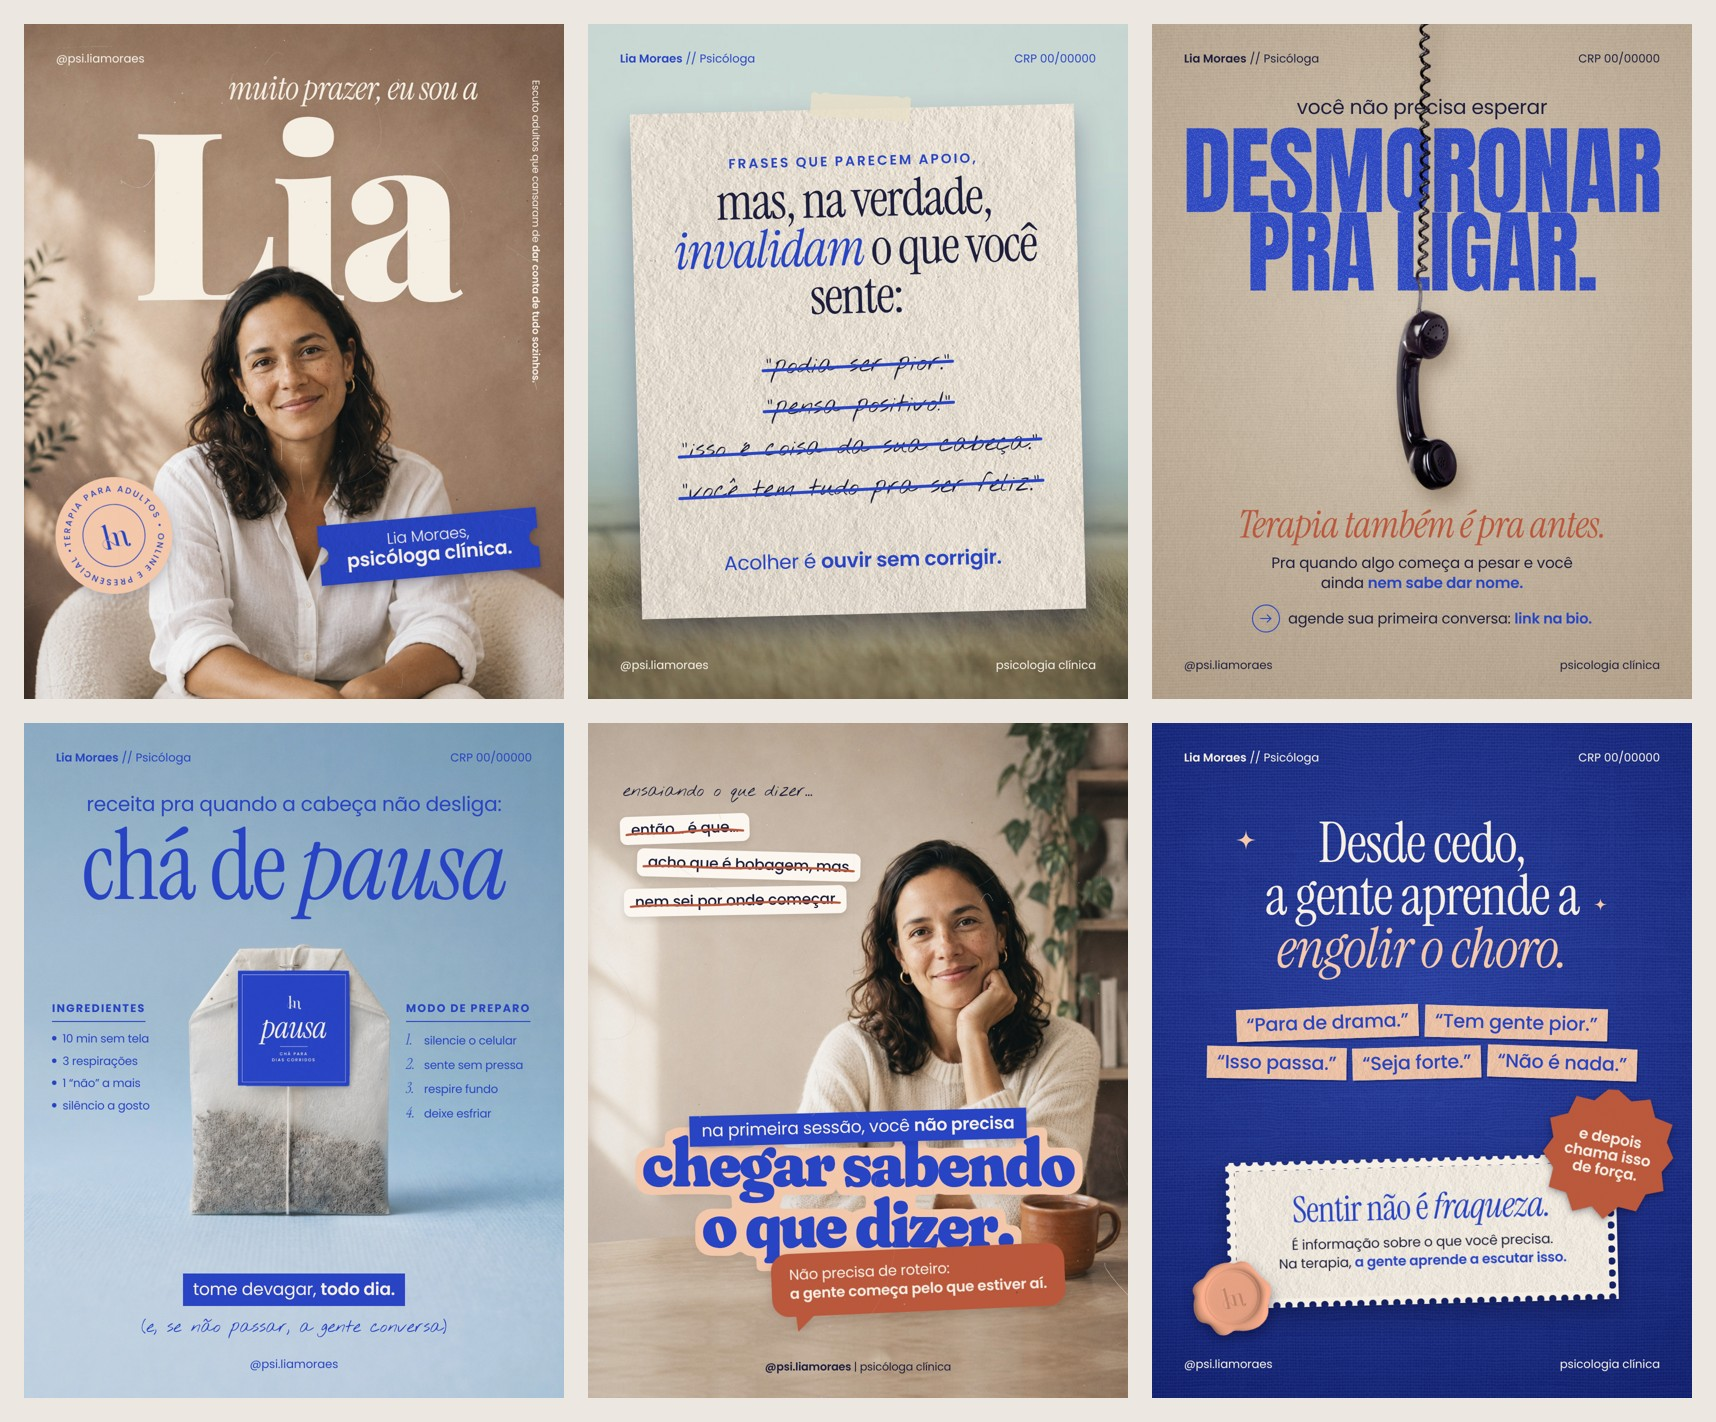
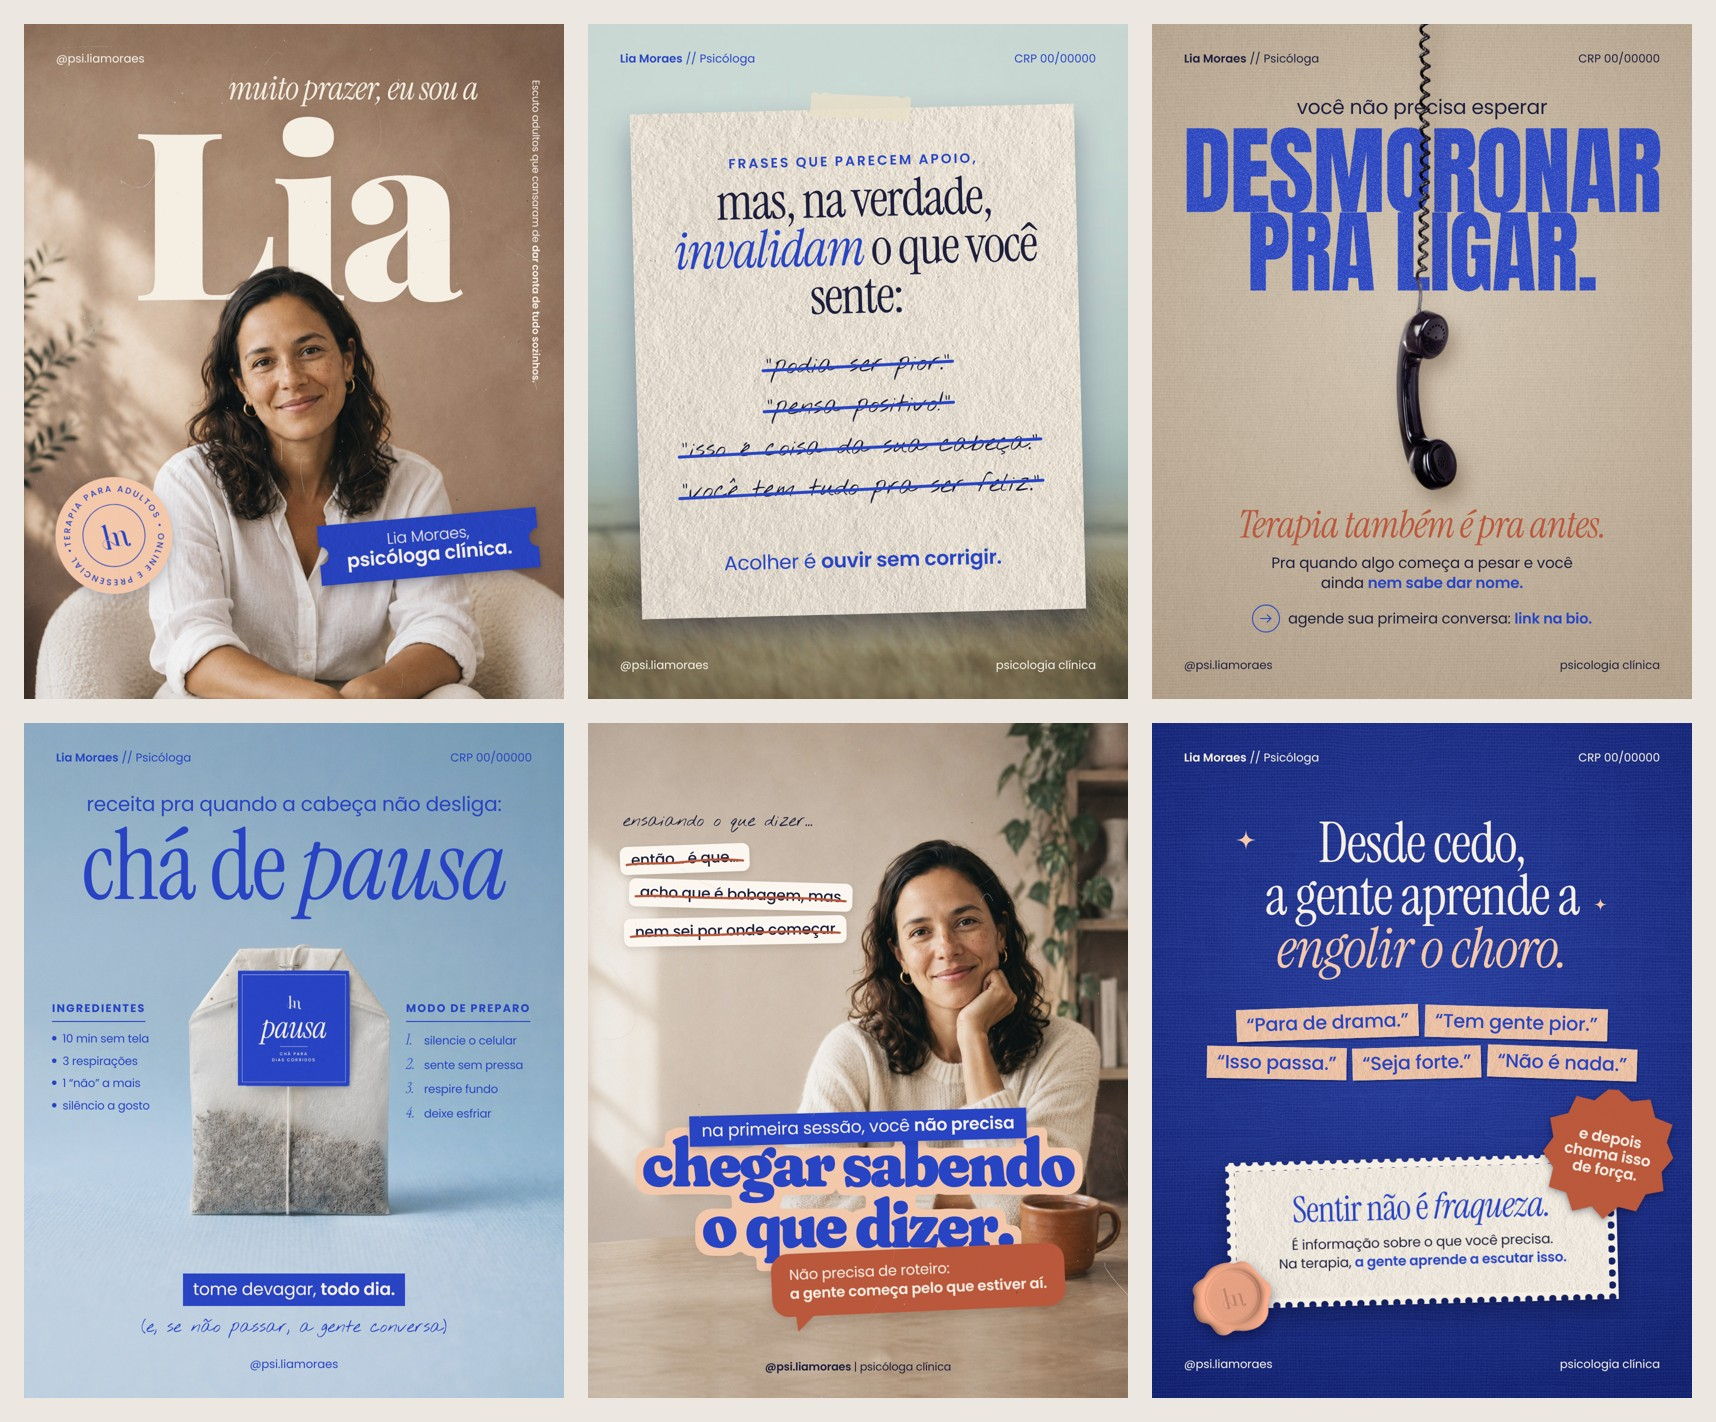
Lia Moraes: post 5 com os rascunhos mais baixos
Claude-Session: https://claude.ai/code/session_01CmCiK8Gv7bd1khyaxwEQLc

Changed region(s): [[0.3397, 0.557, 0.5251, 0.6807]]

diff --git a/psicologa-lia-moraes/projeto/posts/posts-v5.html b/psicologa-lia-moraes/projeto/posts/posts-v5.html
@@ -219,10 +219,10 @@ body{background:#777;padding:20px;display:flex;gap:20px;flex-wrap:wrap}
 <!-- N5 · PRIMEIRA SESSÃO (rascunhos riscados + título adesivo) -->
 <div class="art" id="p5" style="color:#1C1D3A;background:#d8cbbd">
   <img class="abs" src="../ia/filme-lia/mesa-a-ampla.jpg" style="left:0;top:-20px;width:1080px">
-  <div class="abs" style="left:64px;top:118px;width:470px;z-index:4">
+  <div class="abs" style="left:64px;top:178px;width:470px;z-index:4">
     <div class="mao" style="font-size:36px;line-height:1;color:#1C1D3A;margin-left:6px">ensaiando o que dizer...</div>
     <div style="margin-top:30px"><span class="rasc" style="transform:rotate(-2deg)">então… é que…</span></div>
-    <div style="margin-top:16px;margin-left:34px"><span class="rasc" style="transform:rotate(1.5deg)">acho que é bobagem, mas</span></div>
+    <div style="margin-top:16px;margin-left:18px"><span class="rasc" style="transform:rotate(1.5deg)">acho que é bobagem, mas</span></div>
     <div style="margin-top:16px;margin-left:8px"><span class="rasc" style="transform:rotate(-1deg)">nem sei por onde começar</span></div>
   </div>
   <div class="abs" style="left:0;right:0;top:738px;text-align:center;z-index:5">
